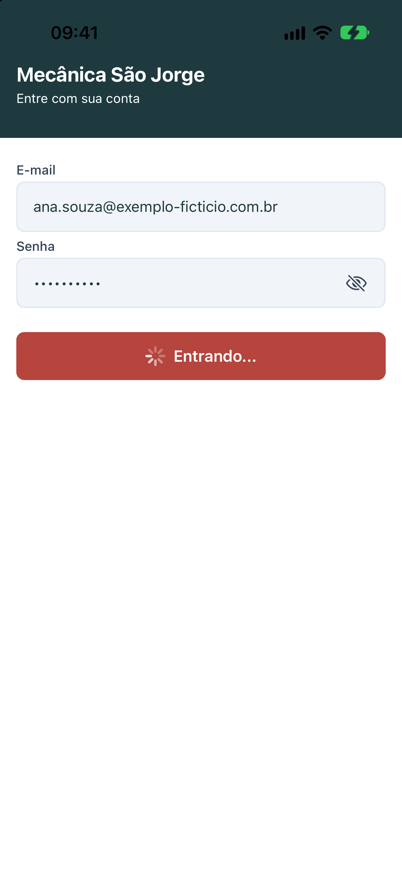
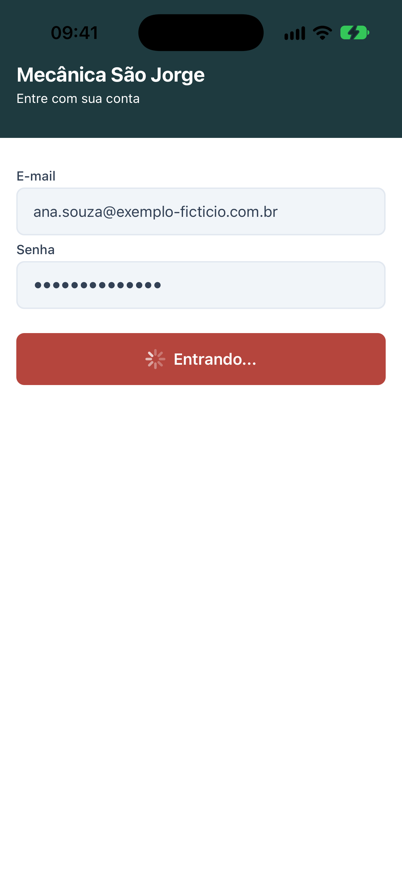
docs(f41): recapturar o app após as correções de paridade e registrar medidas e md5

diff --git a/docs/design/F41-conferencia-paridade.md b/docs/design/F41-conferencia-paridade.md
@@ -344,3 +344,82 @@ Não recalculei por script nesta rodada: reaproveitei a razão da seção 5 para
 ### 12.10 README
 
 README sem mudança: só documentação, capturas e edição de dois frames do Figma.
+
+## 13. Rodada do ORLA (2026-11-13, 2ª): correções da tabela do ESQUADRO e recaptura do app
+
+Autor: ORLA. Ramo: **`feat/f41-paridade-correcoes`**, criado a partir de `88c586c`. As rodadas anteriores (seções 11 e 12) ficaram no ramo `feat/f40-componentizacao-mobile`; este ramo só tem os commits abaixo. Estado: **correções do código feitas e capturadas; feature NÃO fechada** (decisões 1 a 13 da pessoa, estados sem captura e lado Figma dos tokens).
+
+### 13.1 Figma nesta sessão (US-PAR-11)
+
+`mcp__figma-remote__create_session` (arquivo `DLqbSzzKRxiN2eyvXG73Lr`) voltou: `Claude requested permissions to use mcp__figma-remote__create_session, but you haven't granted it yet.` Não repeti a chamada. Pedi ao ESQUADRO medidas do olho e do campo; ele respondeu que **não tem nenhuma ferramenta `mcp__figma-remote__*` nesta sessão** e não mediu nada. **Nenhum nó nem variável do Figma foi lido ou alterado nesta rodada.** O lado Figma aqui são as 12 capturas versionadas, medidas em pixel por mim (leitor de PNG fora do repositório, margem ±1 pt) e a tabela da seção 12.
+
+### 13.2 Protocolo de captura realmente usado (desvio da premissa 9, igual à seção 11.2)
+
+| Item | Valor |
+|---|---|
+| Aparelho | **Simulador** iPhone 17, iOS 27.0, 1206×2622 (3x, 402×874 pt). **Não** é o aparelho físico da premissa 9 (dúvida 2 sem resposta) |
+| Modo | Expo Go 54, Metro em modo dev na 8082 (`CI=1`, sem recarga: reiniciado a cada mudança de código), `EXPO_PUBLIC_API_BASE_URL=http://localhost:8080` |
+| Tema / fonte / orientação | Claro / padrão / retrato |
+| Barra de status | `simctl status_bar override` 9:41, bateria cheia, sinal cheio; limpa ao fim |
+| Dados | `ana.souza@exemplo-ficticio.com.br` e senha fictícia mascarada (`secureTextEntry`); nenhuma API, nenhum token, nenhum dado real |
+| Arquivos | reduzidos a 402 px com `sips`; 16 a 59 KB cada |
+
+**O que prova:** só `app-login-vazio.png` é a rota real `/login`. As demais vêm de uma rota temporária (`app/capture.tsx`, **apagada, nunca commitada**) que compõe os componentes reais com props fixas, aberta por deep link. Provam **aparência**, não o fluxo contra a API. Nada foi tocado nem digitado no simulador; o foco do campo (`app-login-foco-campo.png`) vem de `TextInput.focus()` por ref, que dispara o `onFocus` real. Não há diff automático nem montagem lado a lado.
+
+**Lição repetida:** a 1ª leva desta rodada tinha 3 fotos do Expo Go carregando ("Opening project…", splash, "Downloading 100%") e um diálogo no meio do fade. Todas distintas por md5. Refeitas com 30 s de espera e abertas uma a uma.
+
+### 13.3 md5 de cada foto (captura original 1206×2622 / arquivo versionado 402 px)
+
+| Arquivo | md5 original | md5 versionado | Bytes |
+|---|---|---|---|
+| `app-login-vazio.png` (rota real) | `cdfbeff8c7ca25b2ea08a410973f609b` | `dd0c4a0eea675d208860a560019febbd` | 34831 |
+| `app-login-carregando.png` | `dac525753189526d37b2a76097b1063f` | `526d8c7b86e5ace7a07991c8fb946d8e` | 42021 |
+| `app-login-erro-validacao.png` | `3466c6c7ab2e0ae61976fcc2ca4b35a5` | `942eeb8a31c56dca5ed3ada2ef7efd2e` | 44820 |
+| `app-login-erro-rede.png` | `1f0dbf3f4df9c927af16f20e25f8dda8` | `03a3e28598be158c4f8ec08293ed4f2f` | 52593 |
+| `app-login-preenchido.png` | `26904229e2a14c03fd9768d86a4e2eab` | `d9da64298685e055404d28987bc2eb9d` | 38651 |
+| `app-login-foco-campo.png` (novo; sem par no Figma) | `fd7d3aa00cf4514a703b8d791ce53d9f` | `05442122ae10e6ff5b3c19216fe70755` | 40033 |
+| `app-perfil-preenchido.png` | `8650c275366be803e097971867d1789b` | `329fef9b3bc5d9d904c4a5830a9d729d` | 44945 |
+| `app-perfil-confirmar-saida.png` | `3b44a23f4465e5b25310b25465020651` | `dfce4563ac6547a7f2dac5c935d35e63` | 58988 |
+
+Os 8 originais têm hash distinto entre si e cada um foi aberto e visto. `erro-validacao` e `confirmar-saida` têm o mesmo md5 de uma captura anterior da mesma rodada, feita antes do ajuste de espaçamento que não os afeta: coerente, o render é determinístico.
+
+### 13.4 Divergências da tabela do ESQUADRO: resultado
+
+Commits: `e80ffce` (anel, largura do diálogo, botão de página), `f83c536` (teste do anel), `17f9cc7` (campo), `ccf17e6` (olho e Entrar/Sair 52), `a4bbbc9` (respiro do Login e rótulo). Medido no app (pt, margem ±1) contra o Figma (capturas `figma-*`).
+
+| ID | Correção (commit) | Antes → depois, app | Figma | Teste |
+|---|---|---|---|---|
+| L-13 | Valor digitado em slate-700 (`17f9cc7`) | petro → `text.secondary` | slate-700 | `text-field.test.tsx` |
+| L-14 | `minHeight` 48 passa para a linha do campo (o Yoga conta a borda); acessório com `marginVertical` -1,5 para o olho de 48 caber | 50,0 → **47,7** (e-mail e senha 48 medidos) | 48 | `text-field.test.tsx` |
+| B-01 (página) | `Button size="page"` (52) em Entrar e Sair; padrão segue 48 | 48 → **52,0** | 52 | `button.test.tsx` |
+| L-15 | Olho sai do campo em "Entrando..." (campos já ficavam travados) | olho presente → ausente | ausente | `login.test.tsx` |
+| D-04 | `layout.dialogMaxWidth` 320 → 296 | 320 → **295** (diálogo e popup) | 296 | `confirm-dialog.test.tsx` |
+| F-01 | Anel: respiro 2 → **4**, petro 2, raio externo 12 → **14** | petro a 2–4 → 4–6 do controle | petro 2 pt a 4 pt (confirmado em `29:79`: 310–312 petro, 312–316 branco, botão 316–368) | `use-focus-ring.test.ts` |
+| L-11 (resto) | `ScreenContainer topSpacing`; Login usa 30 sem banner e 24 com banner | faixa→campo **43,7 → 49,6** | 50 (4 frames sem banner); com banner já batia (24) | `screen-container.test.tsx` |
+
+Efeitos colaterais que eu achei e tratei: (1) o halo de 4 pt do anel cobria a base do rótulo "E-mail"; o rótulo ganhou `zIndex: 1` (visto em `app-login-foco-campo.png`, texto inteiro). (2) `IconButton` passou a usar o mesmo raio de anel dos demais. (3) o botão de ação do estado vazio (`StateView`, sem frame) herdou a largura 296 por usar `dialogMaxWidth`.
+
+**F-01 só foi visto no campo de e-mail** (`TextInput.focus()`), onde o anel de 6 pt encosta no rótulo; no botão e no olho o anel não foi fotografado (o foco não pode ser forçado de fora) e continua conferido só por teste de componente. Em aparelho físico não foi visto.
+
+### 13.5 Divergência nova achada nesta rodada (não corrigida: fora da tabela)
+
+| ID | Figma | App | Evidência |
+|---|---|---|---|
+| **L-17** | Faixa de erro (`29:60`) com **44** de altura (144→188 em `29:56`) | **40** (162,7→203) | medida nas duas capturas; `inline-alert.tsx` tem `paddingVertical` 12 e sem altura mínima |
+
+Corrigir é trivial (`minHeight` 44), mas a instrução desta rodada foi corrigir só a tabela do ESQUADRO. **Aguarda o comandante.** O ⚠ da faixa no Figma é triângulo cheio e no app é o glifo do sistema, vazado: classifico como só de plataforma (fonte), mas a decisão é do ESQUADRO.
+
+### 13.6 O que continua em aberto
+
+- **Decisões da pessoa 1 a 13** (seções 7 e 12.8): botão Fechar, rótulos do Perfil, Ionicons, estado "Padrão", Perfil carregando e erro, F39, aparelho físico, local das capturas, placeholder (L-12), divisor, botões de 44, frame "Perfil com tab bar", salto do frame `29:20`, rótulo da tab bar. Não toquei no código dessas.
+- **Tokens no Figma (US-PAR-07):** o lado código ganhou `spacing.formTop` (30), `layout.pageButtonHeight` (52), `focusRingOffset` 4 (era 2) e `dialogMaxWidth` 296 (era 320). **Nenhum entrou no Figma** (MCP negado); o `figma.md` e a coleção `28:3` precisam de `space/formTop`, `size/button/page`, o respiro do anel e a largura do diálogo. Descumprido até o ESQUADRO criar.
+- **Sem captura do app:** Perfil carregando e erro, foco no botão/olho/tab bar, tab bar "Padrão". US-MENU-06 (foco de teclado e leitor de tela em aparelho) segue onde estava.
+- **US-PAR-08 não fecha.**
+
+### 13.7 Verificação executada
+
+`npm test` 166 passed / 29 suítes (eram 152); `npm run typecheck` e `npm run lint` sem saída de erro, com a rota temporária já apagada. API e backend não foram subidos nem alterados nesta rodada: comportamento e endpoints iguais (US-PAR-10 só por testes de componente e de tela, que seguem verdes).
+
+### 13.8 README
+
+README sem mudança: nenhuma instalação, comando, variável, porta ou funcionalidade mudou; só aparência de tela, testes e documentação.
